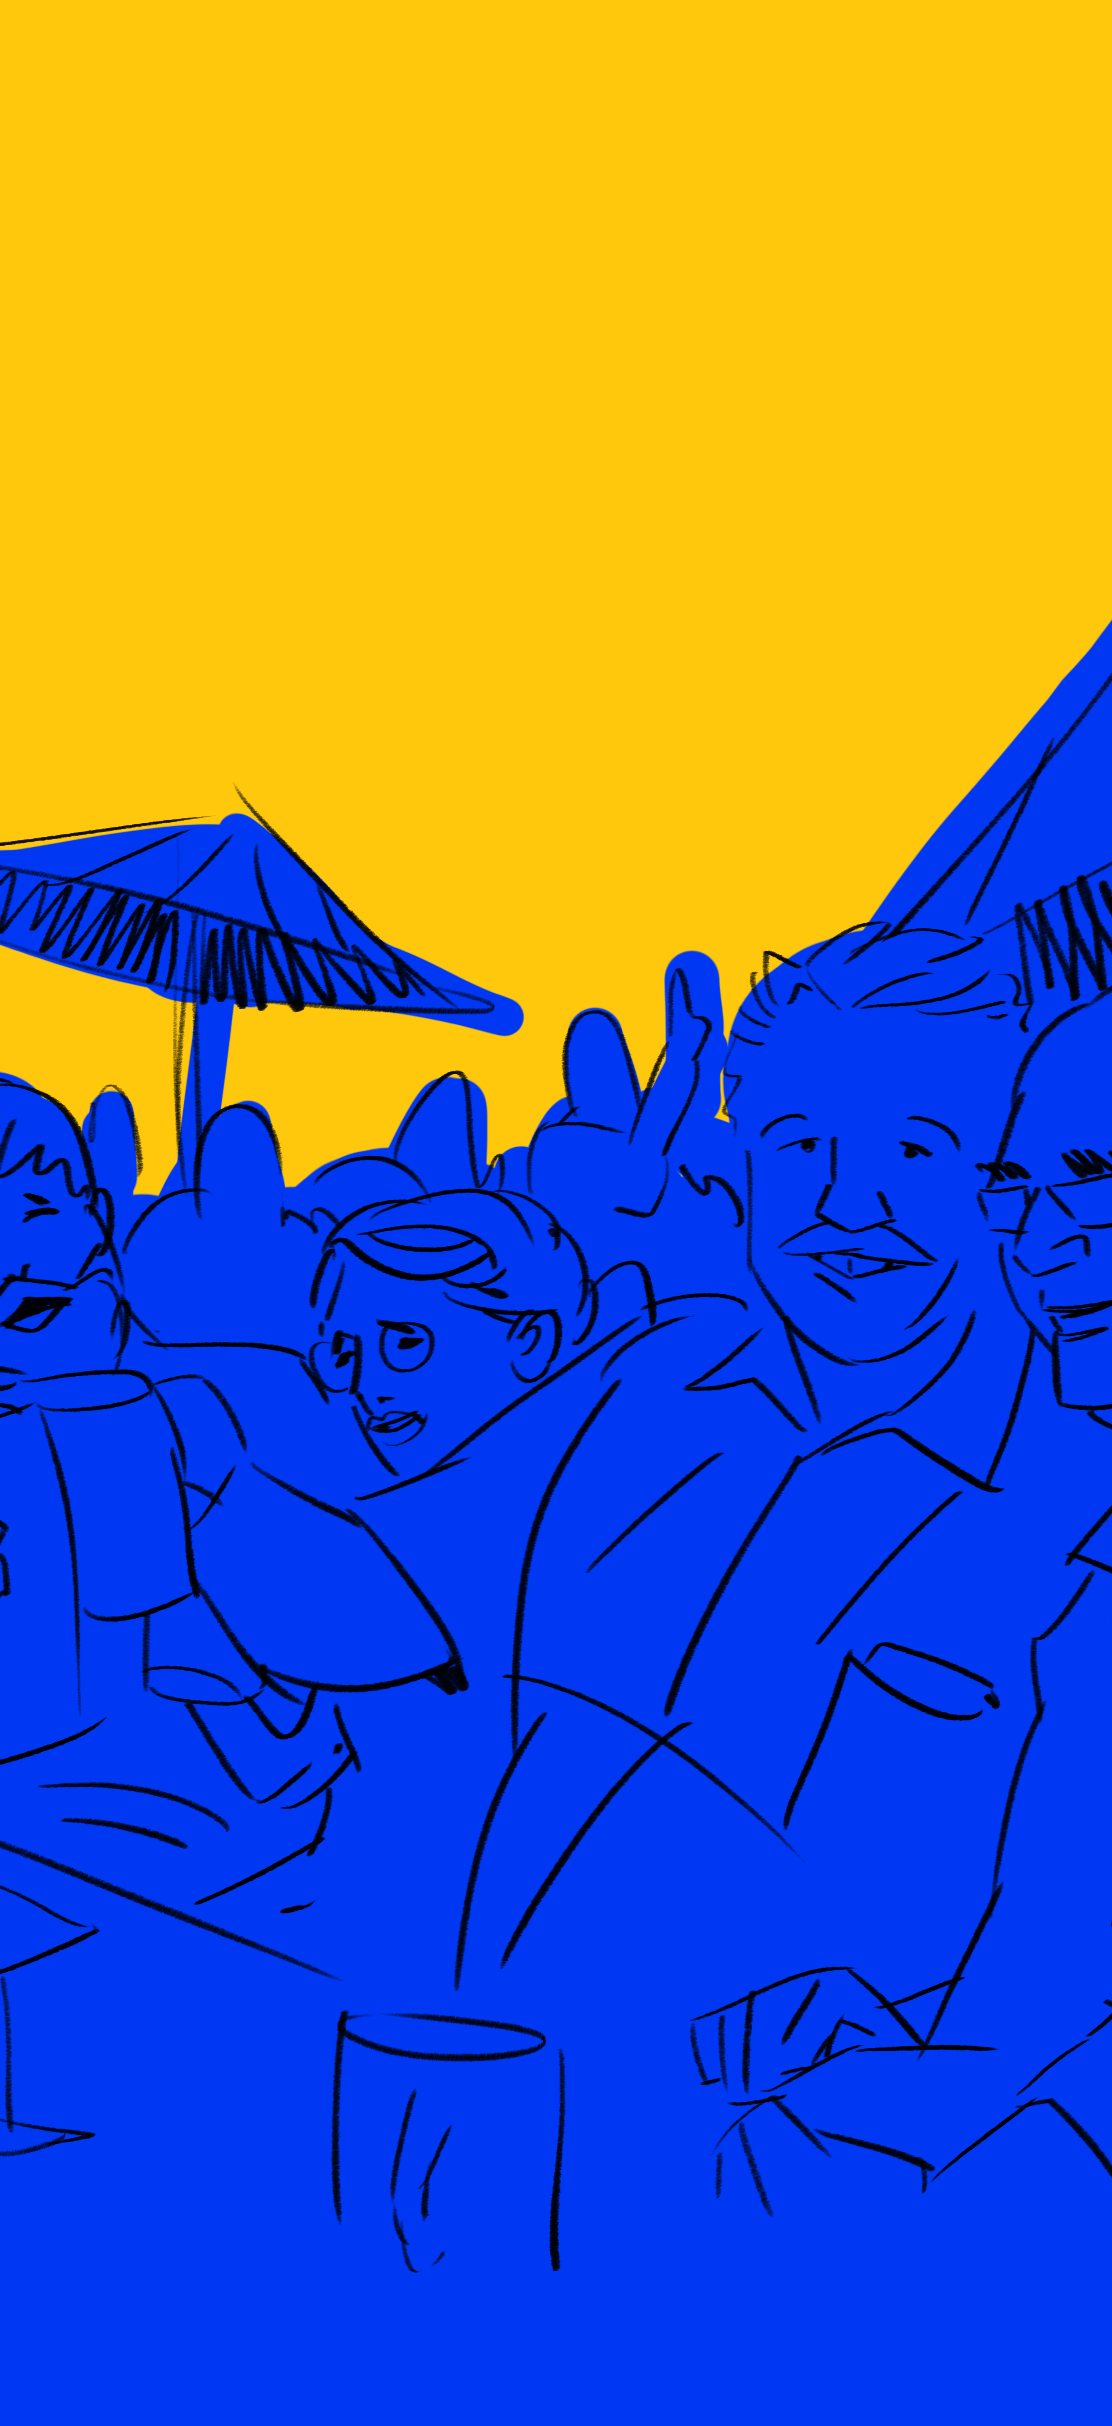
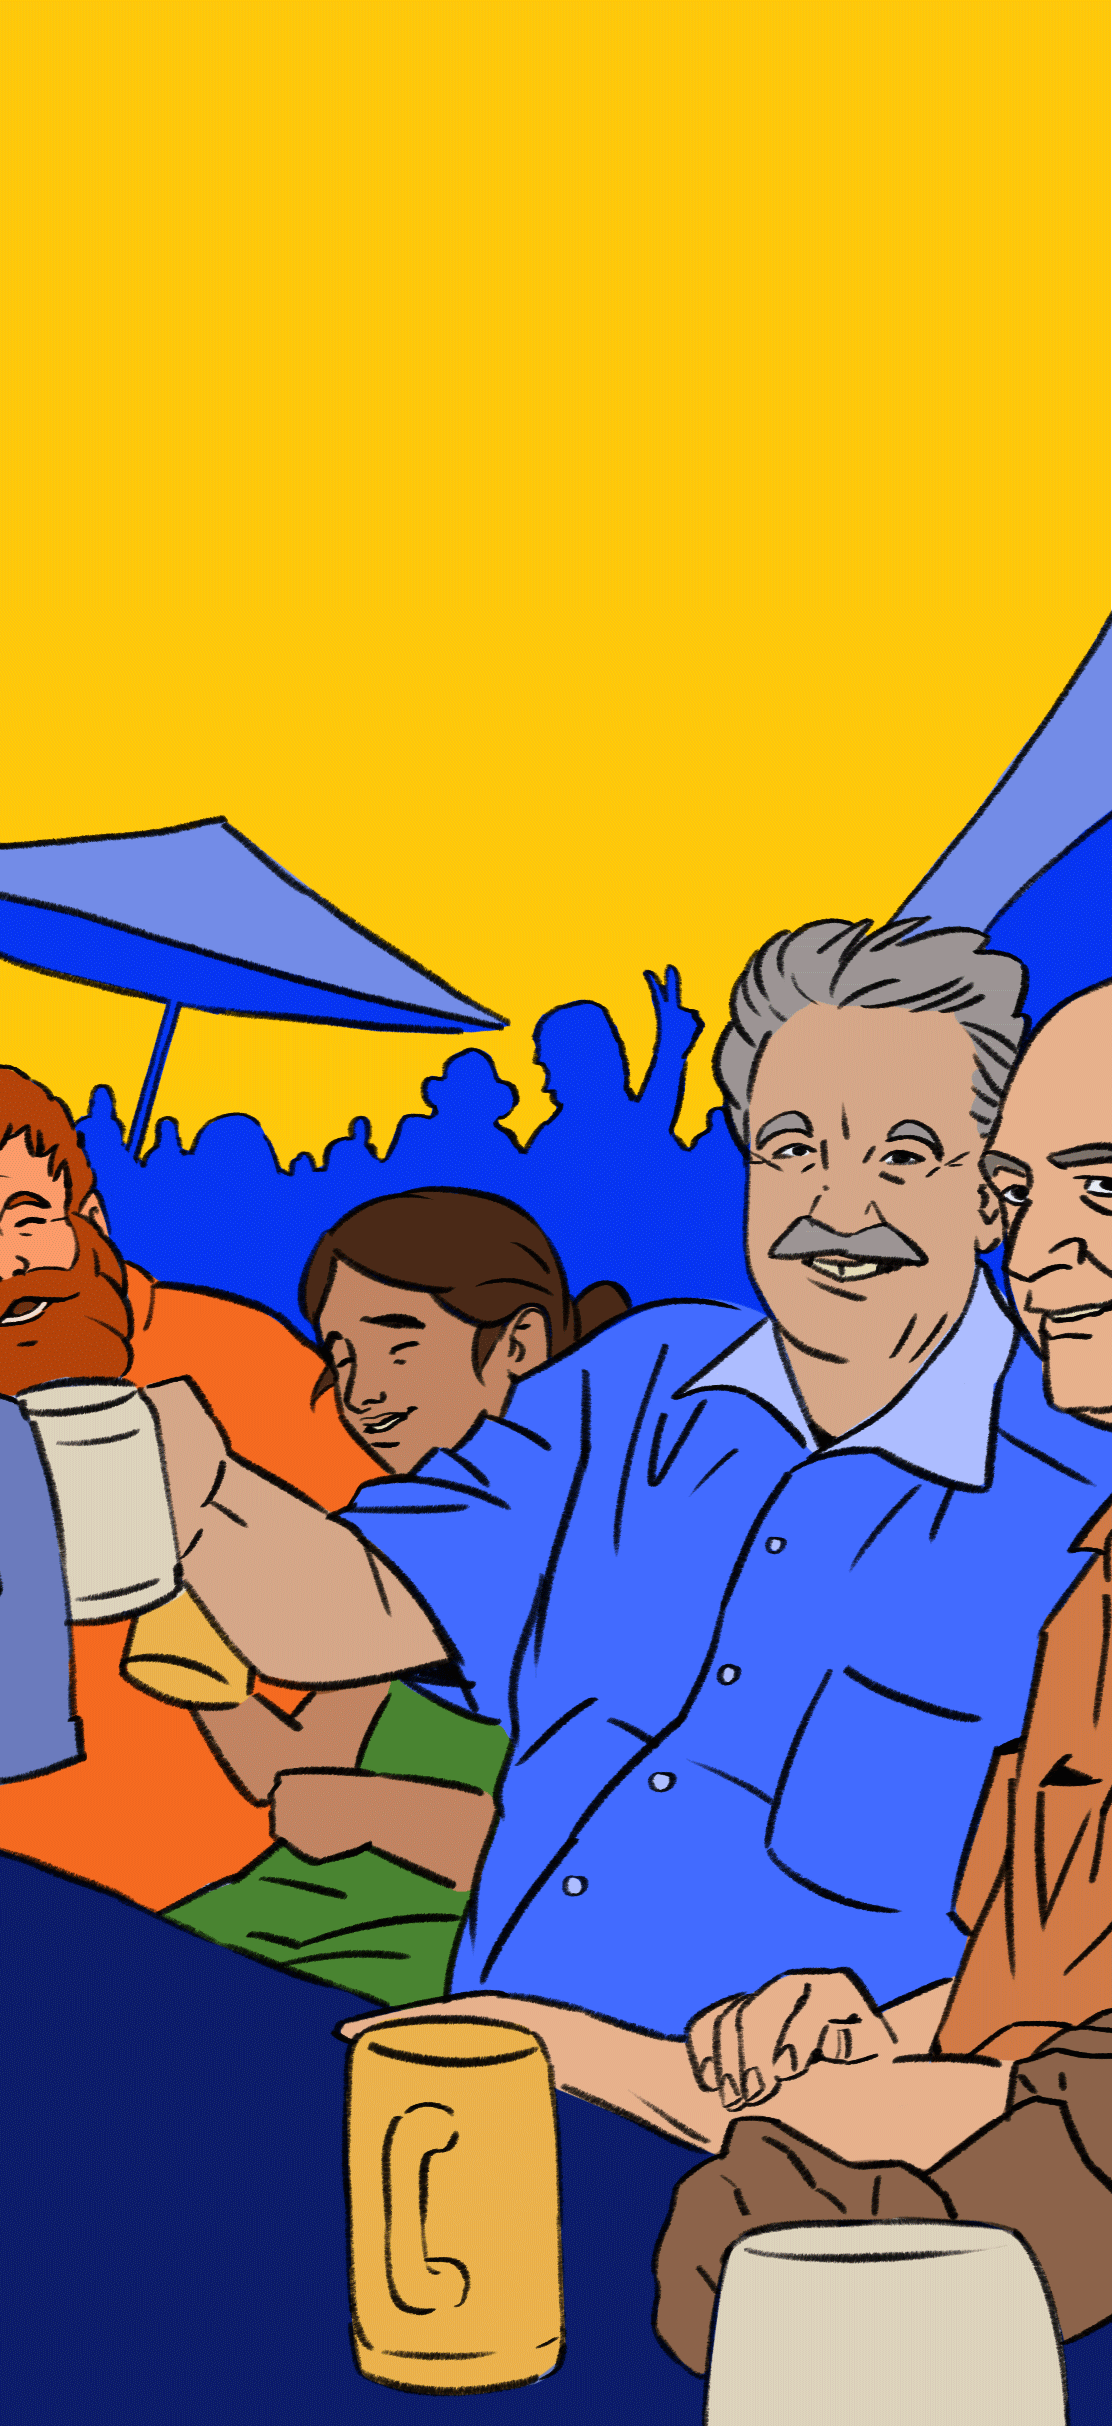
mit den szenarien gespielt

diff --git a/src/index.js b/src/index.js
@@ -314,14 +314,59 @@ const store = configureStore({
         ],
       },
 
+
+
       {
-        // Wahl 2025
-        id: "vote-1",
-        condition: "tick > 194 && love < 30",
+        // kurz vor der 1. Wahl
+        id: "talkshow-vor-wahl1",
+        condition: "tick == 193",
+        slides: [
+          {
+            type: "multiple-choice",
+            background: "talkshow",
+            title: "Morgen wird in Deutschland gewählt",
+            text:
+              "Ihre Bilanz nach 4 Jahren Kanzlerschaft: Alles wurde teurer und das Klima ist trotzdem nicht gerettet. Wie erklären Sie das?",
+            answers: [
+              {
+                text:
+                  "Umbau braucht Zeit. Nach der Wahl geht es weiter.",
+                slides: [
+                  {
+                    type: "love-change",
+                    love: -5,
+                    silent: true
+                  }
+                ],
+              },
+              {
+                text:
+                  "Nur wenn Sie mich wiederwählen, kann ich unser Klima retten. Ich bitte Sie im Namen des Überlebens: Machen Sie ihr Kreuz bei mir.",
+                slides: [
+                  {
+                    type: "love-change",
+                    love: 3,
+                    silent: true
+                  }
+                ],
+              }
+            ],
+          }
+        ]
+      },
+
+
+
+
+      {
+        // Wahl verloren
+        id: "vote-lost",
+        condition: "(tick == 194 || tick == 388 || tick == 582) && love < 30",
         slides: [
           {
             type: "vote",
-            text: "Jörg Schönenborn präsentiert die Wahlergebnisse:",
+            text: "Wahlabend 18 Uhr: Jörg Schönenborn präsentiert die Hochrechnung:",
+            background: "wahl",
             // Gewichtung der anderen Balken
             others: [1, 1.5, 2, 0.2],
           },
@@ -329,6 +374,26 @@ const store = configureStore({
             type: "game-over",
             text: "Leider verloren",
             background: "biertisch",
+          },
+        ],
+      },
+
+      {
+        // Wahl gewonnen
+        id: "vote-won",
+        condition: "(tick == 194 || tick == 388 || tick == 582) && love >= 30",
+        slides: [
+          {
+            type: "vote",
+            text: "Wahlabend 18 Uhr: Jörg Schönenborn präsentiert die Hochrechnung:",
+            background: "wahl",
+            // Gewichtung der anderen Balken
+            others: [1, 1.5, 2, 0.2],
+          },
+          {
+            type: "text",
+            text: "Wahlsieg! Sie bleiben 4 weitere Jahre im Amt!",
+            background: "jubel",
           },
         ],
       },
@@ -427,6 +492,84 @@ const store = configureStore({
           },
         ],
       },
+
+
+      //Playground
+
+
+
+
+      {
+        // testscreens
+        id: "michastest",
+        condition: "tick == 10",
+        slides: [
+          {
+            type: "text",
+            text:
+              "<p>Willkommen an Ihrem neuen Arbeitsplatz</p>",
+            background: "buero",
+            position: "top",
+          },
+          {
+            type: "news",
+            title: "Folgen den Versprechen nun auch Taten?",
+            text:
+              "Der Druck in der Presse steigt. Fangen Sie an, erste Maßnahmen umzusetzen.",
+            background: "zeitung",
+            newspaper: "zeit",
+          },          
+          {
+            type: "multiple-choice",
+            background: "interview",
+            text:
+              "Warum gibt es noch immer keinen Gesetzesentwurf von Ihnen?",
+            answers: [
+              {
+                text:
+                  "Ich musste mich erst ins Amt einfinden",
+                slides: [
+                  {
+                    type: "love-change",
+                    love: -8,
+                    text:
+                      "Glauben Sie, die Klimakrise wartet auf Sie? Die Bürger lachen über Sie.",
+                    background: "biertisch",
+                  },
+                ],
+              },
+              {
+                text:
+                  "Große Änderungen brauchen Vorlauf. Sie werden bald großes von mir hören!",
+                slides: [
+                  {
+                    type: "news",
+                    title: "Kann Bohmeyer noch Klima?",
+                    text:
+                      "Große Änderungen wurden angekündigt? Ist da was dran oder nur heiße Luft? Das Kanzleramt hält sich bedeckt.",
+                    background: "zeitung",
+                    newspaper: "faz",
+                  },
+                  {
+                    type: "love-change",
+                    love: -1,
+                    text:
+                      "Fangen Sie am besten mit dem Kohleausstieg an, das haben Sie immerhin in der Wahl versprochen.",
+                    background: "zeitung",
+                  },
+                ],
+              }
+            ],
+          },
+        ],
+      },
+
+
+
+
+
+
+
     ],
   },
 });
